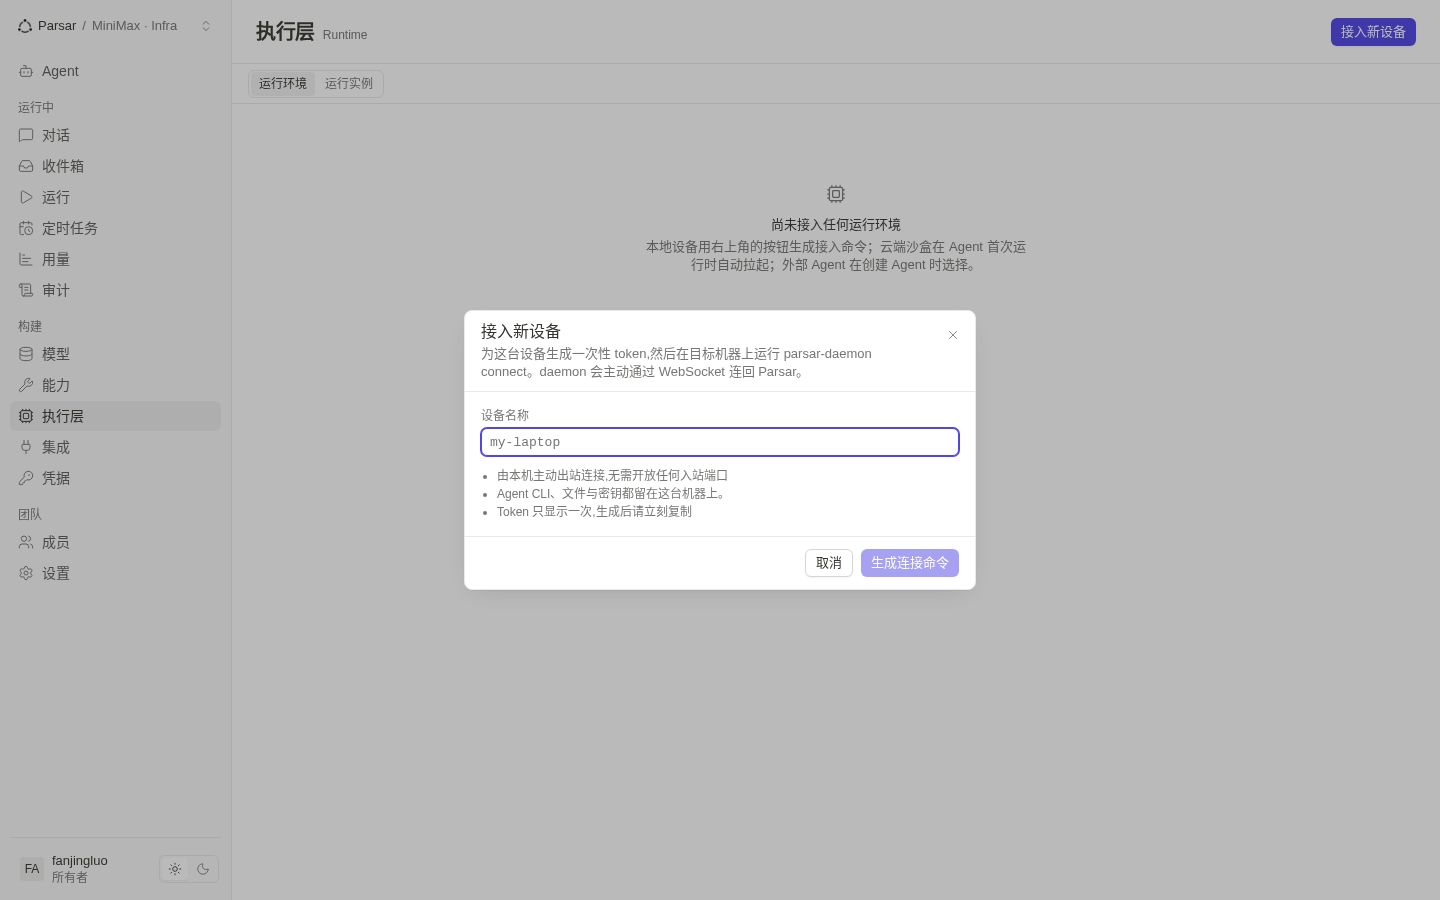
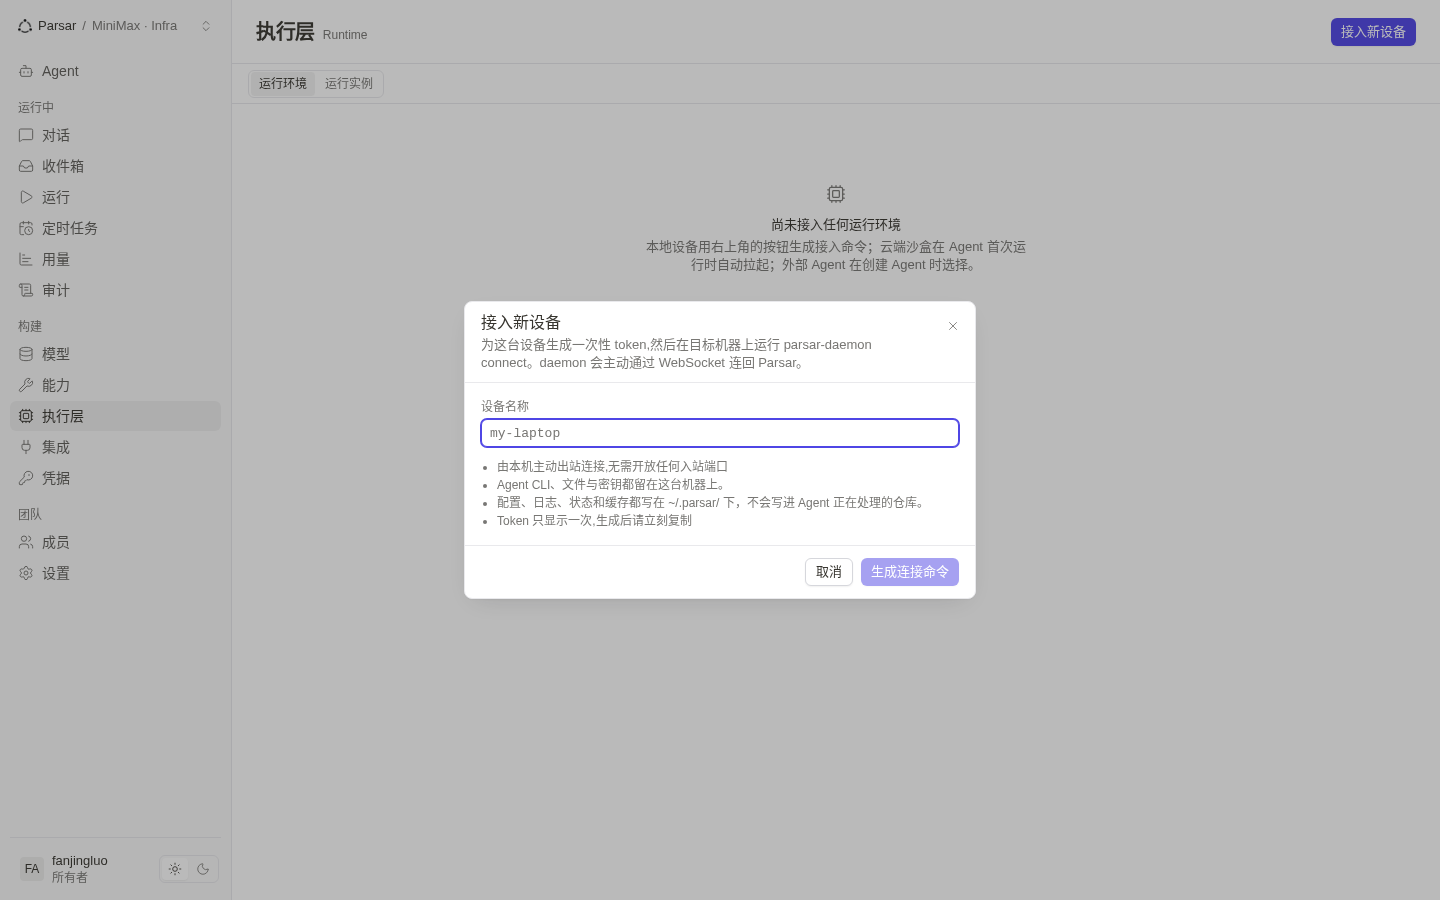
fix(web): the form was stricter than the system it drives
The review caught what moving the rule exposed: the working-directory hint now
says "an absolute path, or one starting with `~/`", and the form three lines
below it rejected exactly that. `CreateAgentDialog` guarded on
`startsWith("/")` in three places, so typing `~/code/my-app` produced
"工作目录必须是绝对路径（以 / 开头）" and blocked the wizard.

The hint was right and the form was wrong. `codex/options.go:218-227` and
`claudecode/session.go:686-693` expand `~/` themselves, and the server's own
check reads "must be absolute or start with ~". One `isUsableWorkDir` predicate
now matches them, and the error says what it means.

Two more from the review:

**`~/.parsar/` was deleted rather than relocated.** After the previous commit
the console stated nowhere on any surface where a daemon writes its state, and
it has no link to the docs that do. It is a line in the pairing dialog's
connection notes now, beside "files and secrets stay on this machine" — the
moment someone is deciding to let a daemon onto their machine is the moment
that fact is worth reading.

**The hints put the prohibition last**, so "只接受绝对路径" / "Absolute paths
only" landed after "leave blank to use a scratch dir" and read as retracting
it. The format now sits with the sentence about the format, and the English no
longer ends on `~/.`, which read as a dotfile path.

Also: `settings` had five more branches with no code reference at all —
`advanced`, `security`, `tabs`, `gatewayDefaults`, `actions`, 45 keys, left
[…]

diff --git a/apps/web/src/pages/admin/CreateAgentDialog.tsx b/apps/web/src/pages/admin/CreateAgentDialog.tsx
@@ -193,6 +193,17 @@ function runtimeFromAgent(a?: Agent | null): RuntimeChoice {
   return a?.runtime ?? "sandbox"
 }
 
+/**
+ * What the daemon and the server both accept: an absolute path, or one under
+ * the operating user's home. The form used to demand a leading `/`, which was
+ * stricter than either — `codex/options.go` and `claudecode/session.go` expand
+ * `~/` themselves, and the server's own check reads "must be absolute or start
+ * with ~".
+ */
+function isUsableWorkDir(path: string): boolean {
+  return path.startsWith("/") || path.startsWith("~/")
+}
+
 function deviceIDFromAgent(a?: Agent | null): string {
   return String(agentConfig(a).device_id ?? "")
 }
@@ -790,7 +801,7 @@ export function CreateAgentDialog({
     if (!name.trim() || !hasConnector) return
     if (connector === "agent_daemon" && executionMode === "local_device" && !deviceID) return
     const trimmedWorkDir = workDir.trim()
-    if (connector === "agent_daemon" && trimmedWorkDir !== "" && !trimmedWorkDir.startsWith("/")) {
+    if (connector === "agent_daemon" && trimmedWorkDir !== "" && !isUsableWorkDir(trimmedWorkDir)) {
       // The daemon also enforces absolute paths, but failing fast here gives
       // the user a clearer error tied to the input instead of a stream error.
       return
@@ -969,7 +980,7 @@ export function CreateAgentDialog({
   }
 
   const workDirTrimmed = workDir.trim()
-  const workDirValid = connector !== "agent_daemon" || workDirTrimmed === "" || workDirTrimmed.startsWith("/")
+  const workDirValid = connector !== "agent_daemon" || workDirTrimmed === "" || isUsableWorkDir(workDirTrimmed)
   const canSubmit =
     !pending &&
     name.trim() !== "" &&
@@ -1195,7 +1206,7 @@ export function CreateAgentDialog({
                 <Field
                   label={t("agents.form.fields.workDir")}
                   hint={t(executionMode === "sandbox" ? "agents.form.workDir.hintSandbox" : "agents.form.workDir.hintLocal")}
-                  error={submitAttempted && workDir.trim() !== "" && !workDir.trim().startsWith("/") ? t("agents.form.errors.workDirAbsolute") : undefined}
+                  error={submitAttempted && workDir.trim() !== "" && !isUsableWorkDir(workDir.trim()) ? t("agents.form.errors.workDirAbsolute") : undefined}
                 >
                   <Input
                     value={workDir}

diff --git a/apps/web/src/components/admin/PairDaemonDialog.tsx b/apps/web/src/components/admin/PairDaemonDialog.tsx
@@ -145,6 +145,11 @@ export function PairDaemonDialog({ open, onClose, workspaceID, onPaired }: PairD
                   })}
                 </li>
                 <li>
+                  {t("runtime.agentDaemon.pair.safetyState", {
+                    defaultValue: "Config, logs, state and cache are written under ~/.parsar/ — never into the repository the agent is working in.",
+                  })}
+                </li>
+                <li>
                   {t("runtime.agentDaemon.pair.safetyOnce", {
                     defaultValue: "The token is shown once — it cannot be recovered after this dialog closes.",
                   })}

diff --git a/apps/web/src/pages/admin/SettingsPage.tsx b/apps/web/src/pages/admin/SettingsPage.tsx
@@ -103,7 +103,6 @@ export function SettingsPage() {
                 </Ledger>
               )}
             </PageSection>
-
           </div>
         </div>
       </div>

diff --git a/apps/web/DESIGN.md b/apps/web/DESIGN.md
@@ -518,7 +518,9 @@ Spacing rhythm: 2 / 4 / 8 / 10 / 12 / 16 / 24. Tight inside a group, generous be
 
 **The Action Slot Is For Actions Rule.** The topbar's right end holds what you can *do* on this page, and nothing else. A segmented control that navigates between pages is not an action, and putting one there — as 设置 did, one control away from 添加凭据 — asks the reader to tell navigation from action by reading rather than by position. Navigation is the sidebar's job.
 
-**A Place Is Not An Object Rule.** 设置 named a place and hid three real objects inside it: a credential ledger, a usage report and an audit log, none of which is a setting, each reachable only by first going somewhere it does not belong. When a "section" turns out to hold things of different shapes, those things are pages, and the section was a folder someone put them in. Settings keeps what is genuinely the workspace's own — its name, its language, its auth providers — and the ledgers stand with the other ledgers. The same test applies inside a page: 当前运行策略 was four property rows of hard-coded literals — a path format, a filesystem location, a note that the runtime moved to the Agent, and the names of two other pages — and passed none of the three tests for an object. It was not instanceable (one, identical for every workspace, forever), not structured (four unrelated facts), and not useful (nothing on it could be read off or acted on). Its own description said what it was: a note about which controls do not exist yet. A rule about a field belongs on that field; the rest was navigation written as prose.
+**A Place Is Not An Object Rule.** 设置 named a place and hid three real objects inside it: a credential ledger, a usage report and an audit log, none of which is a setting, each reachable only by first going somewhere it does not belong. When a "section" turns out to hold things of different shapes, those things are pages, and the section was a folder someone put them in. Settings keeps what is genuinely the workspace's own — its name, its language, its auth providers — and the ledgers stand with the other ledgers.
+
+The same test applies inside a page. **A thing is an object when it is instanceable, structured and useful**: you can have more than one, it has attributes of its own, and the reader cares about it in its own right. 当前运行策略 was four property rows and passed none of them — one, identical for every workspace, forever; four unrelated facts; and nothing on it to act on. Two of its rows named destinations the sidebar already lists, rendered as unlinked strings. A rule about a field belongs on that field, a fact about the daemon belongs where you install one, and what is left after that is a note about the product's construction, which is not a section.
 
 **The Passing Message Rule.** The result of pressing a button is a passing thing: it floats in at the top, holds long enough to be read, and leaves. It never opens a row in the layout — a strip under the header pushes the whole list down, stays after it has been read, and makes a confirmation look like a page state. A *standing condition* is the opposite and keeps its place in the page: "this workspace has no agent" is why the button is disabled, not news about something that just happened.
 
